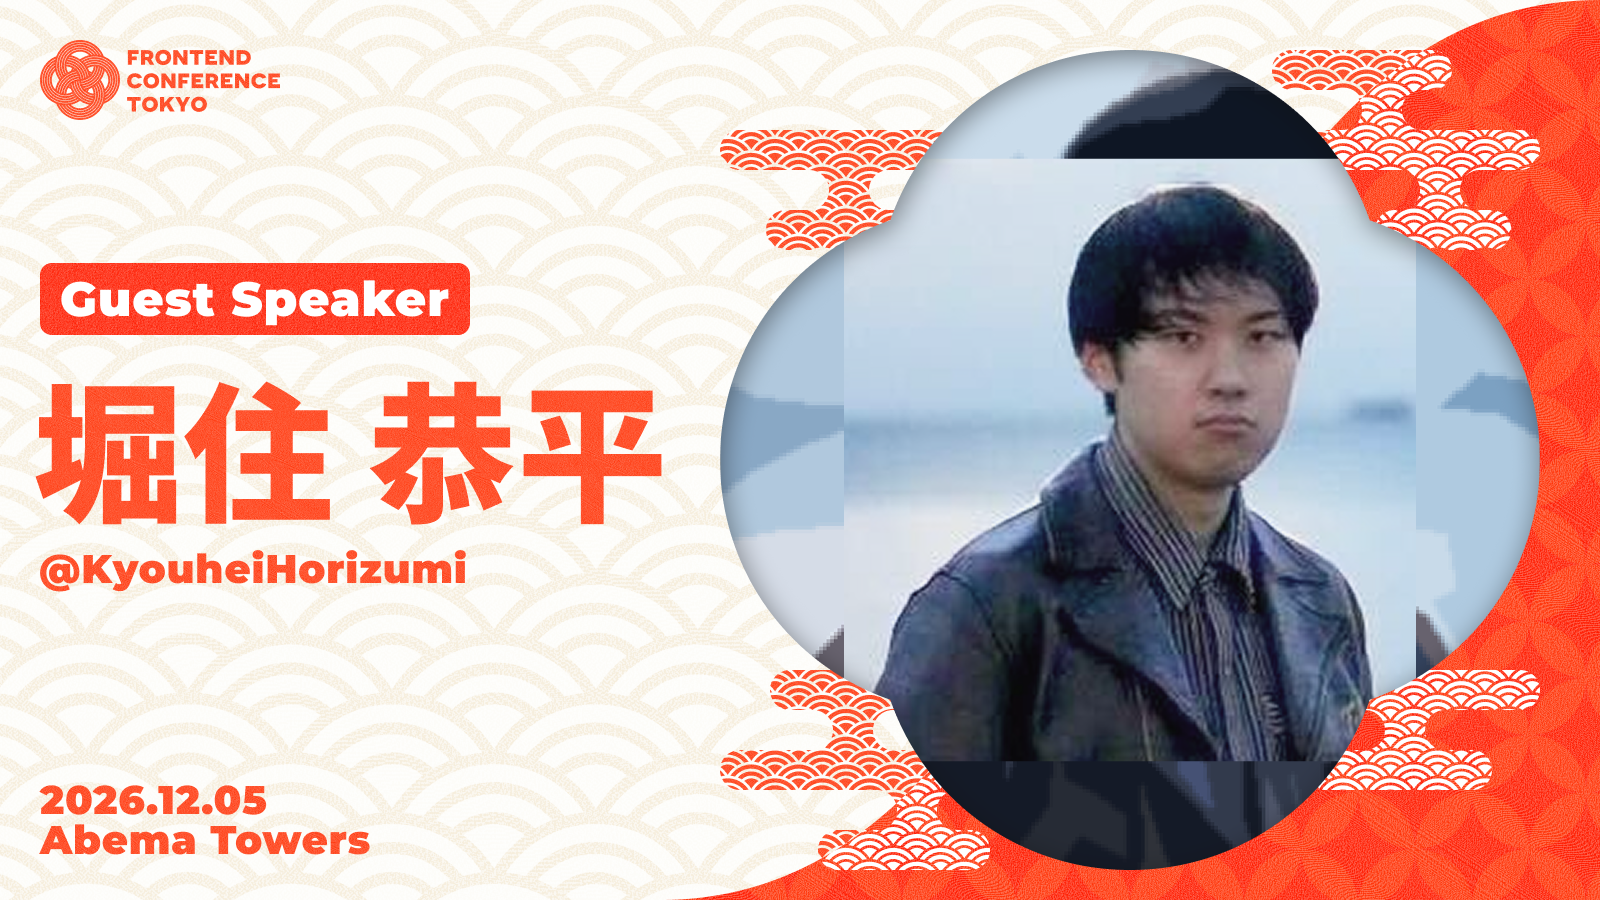
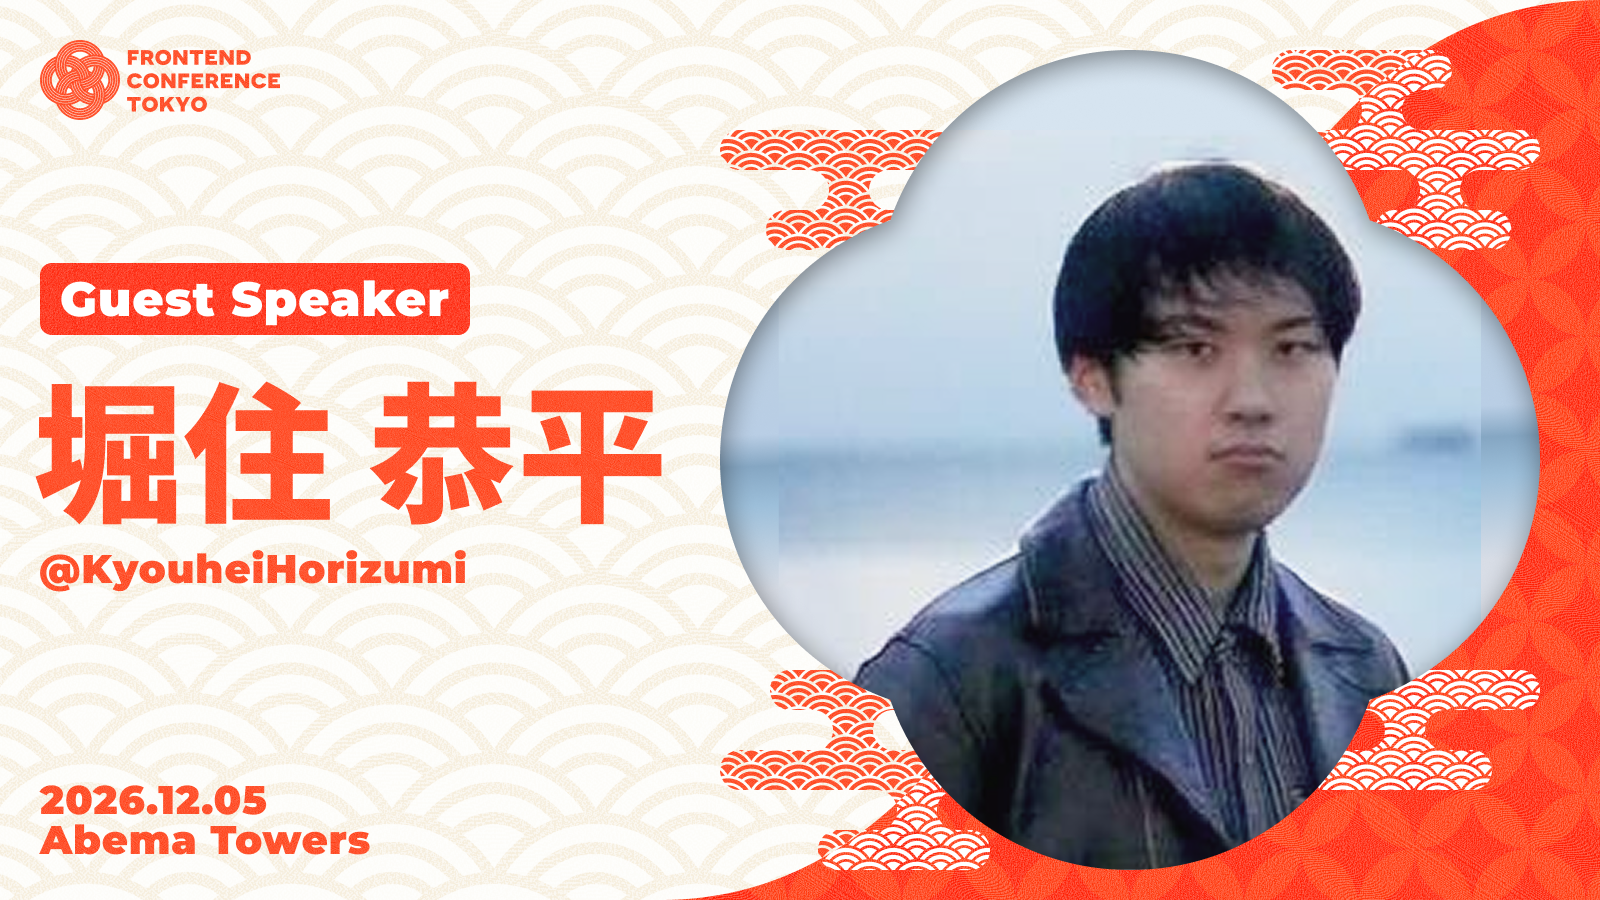
chore: 10/29分の登壇者公開

Changed region(s): [[0.4375, 0.0622, 0.9688, 0.9644], [0.9062, 0.5911, 0.9688, 0.6844], [0.5, 0.28, 0.5312, 0.3422]]

diff --git a/src/data/2026/guestSpeakers.ts b/src/data/2026/guestSpeakers.ts
@@ -3,23 +3,23 @@ import AkihikoKigureOgImage from "@/assets/2026/ogp/ogp_akihikokigure.png";
 import AmagiOgImage from "@/assets/2026/ogp/ogp_amagi.png";
 import HirokiTaniOgImage from "@/assets/2026/ogp/ogp_hirokitani.png";
 import MasatoHondaOgImage from "@/assets/2026/ogp/ogp_hondamasato.png";
+import KyouheiHorizumiOgImage from "@/assets/2026/ogp/ogp_horizumikyohei.png";
 import KeitaYamadaOgImage from "@/assets/2026/ogp/ogp_keitayamada.png";
+import KogisoOgImage from "@/assets/2026/ogp/ogp_kogiso.png";
+import TetsuharuOhzekiOgImage from "@/assets/2026/ogp/ogp_tetsuharuohzeki.png";
 import MasatoHondaImage from "@/assets/2026/speaker-icons/honda_masato.jpg";
 import KeitaYamadaImage from "@/assets/2026/speaker-icons/keita_yamada.png";
 import HirokiTaniImage from "@/assets/2026/speaker-icons/tani_hiroki.jpg";
-// import KyouheiHorizumiOgImage from "@/assets/2026/ogp/ogp_horizumikyohei.png";
-// import KogisoOgImage from "@/assets/2026/ogp/ogp_kogiso.png";
 // import LacolacoOgImage from "@/assets/2026/ogp/ogp_lacolaco.png";
 // import RicardoCabelloOgImage from "@/assets/2026/ogp/ogp_ricardocabello.png";
-// import TetsuharuOhzekiOgImage from "@/assets/2026/ogp/ogp_tetsuharuohzeki.png";
 import Image0b5vr from "@/assets/2026/speaker-icons/0b5vr.png";
 import AkihikoKigureImage from "@/assets/2026/speaker-icons/akihiko_kigure.png";
 import AmagiImage from "@/assets/2026/speaker-icons/amagi.jpg";
-// import KogisoImage from "@/assets/2026/speaker-icons/kogiso.jpg";
-// import KyouheiHorizumiImage from "@/assets/2026/speaker-icons/kyouhei_horizumi.png";
+import KogisoImage from "@/assets/2026/speaker-icons/kogiso.jpg";
+import KyouheiHorizumiImage from "@/assets/2026/speaker-icons/kyouhei_horizumi.png";
 // import LacolacoImage from "@/assets/2026/speaker-icons/lacolaco.jpg";
 // import RicardoCabelloImage from "@/assets/2026/speaker-icons/ricardo_cabello.jpg";
-// import TetsuharuOhzekiImage from "@/assets/2026/speaker-icons/tetsuharu_ohzeki.jpg";
+import TetsuharuOhzekiImage from "@/assets/2026/speaker-icons/tetsuharu_ohzeki.jpg";
 import type { ImageMetadata } from "astro";
 
 export type GuestSpeaker = {
@@ -141,6 +141,54 @@ export const GUEST_SESSIONS: GuestSession[] = [
       },
     ],
   },
+  {
+    slug: "tetsuharu-ohzeki",
+    ogImage: TetsuharuOhzekiOgImage,
+    overview: [
+      "DOM binding - JSの世界とC++で実装されたDOMはどのように統合されて動くのか",
+    ],
+    speakers: [
+      {
+        name: "Tetsuharu Ohzeki",
+        company: null,
+        image: TetsuharuOhzekiImage,
+        profile: "Open Source Software Engineer",
+        sns: "https://github.com/tetsuharuohzeki",
+      },
+    ],
+  },
+  {
+    slug: "kgsi",
+    ogImage: KogisoOgImage,
+    overview: [
+      "コードとデザイン（仮）",
+      "今年起こったデジタルにおけるデザイン界隈の変化と、デザインとコードの今後の在り方についてお話します。",
+    ],
+    speakers: [
+      {
+        name: "こぎそ",
+        company: "株式会社Lumilinks",
+        image: KogisoImage,
+        profile:
+          "株式会社Lumilinks 代表取締役/デザイナー。受託制作会社やインターネットインフラ企業でデザイン、アプリケーション開発などに携わったのち、SaaS企業でプロダクトデザイン、デザインシステムの構築を担当。生成AIベンチャーやスタートアップを経て株式会社Lumilinksを設立。デザインを軸に、組織支援、AIワークフロー構築、広報支援などを行う。共著に『ちいさくはじめるデザインシステム』（BNN）。",
+        sns: "https://x.com/kgsi",
+      },
+    ],
+  },
+  {
+    slug: "kyouhei-horizumi",
+    ogImage: KyouheiHorizumiOgImage,
+    overview: ["サポート詐欺の魔手を断て！"],
+    speakers: [
+      {
+        name: "堀住 恭平",
+        company: "FOURIER Inc.",
+        image: KyouheiHorizumiImage,
+        profile: "Windows Meに育てられました / FOURIER Inc.",
+        sns: "https://x.com/KyouheiHorizumi",
+      },
+    ],
+  },
   // {
   //   // TODO: フォームの登壇概要が空欄だったので、概要が届いたら overview を入れる
   //   slug: "ricardo-cabello",
@@ -154,20 +202,6 @@ export const GUEST_SESSIONS: GuestSession[] = [
   //       profile:
   //         "Ricardo Cabello (Mr.doob) is a Tokyo-based software engineer at Google and the creator of Three.js. Since 2010, he has maintained the open-source 3D web graphics library and led its global community of developers and artists.",
   //       sns: "https://x.com/mrdoob",
-  //     },
-  //   ],
-  // },
-  // {
-  //   slug: "kyouhei-horizumi",
-  //   ogImage: KyouheiHorizumiOgImage,
-  //   overview: ["サポート詐欺の魔手を断て！"],
-  //   speakers: [
-  //     {
-  //       name: "堀住 恭平",
-  //       company: "FOURIER Inc.",
-  //       image: KyouheiHorizumiImage,
-  //       profile: "Windows Meに育てられました / FOURIER Inc.",
-  //       sns: "https://x.com/KyouheiHorizumi",
   //     },
   //   ],
   // },
@@ -195,40 +229,6 @@ export const GUEST_SESSIONS: GuestSession[] = [
   //       profile:
   //         "TypeScript歴13年。20万行超の大規模アプリケーション設計を得意とする。2026年7月から、タイムリープ株式会社の技術顧問。商業書籍の執筆、カンファレンス登壇、イベント運営など。",
   //       sns: "https://x.com/okunokentaro",
-  //     },
-  //   ],
-  // },
-  // {
-  //   slug: "kgsi",
-  //   ogImage: KogisoOgImage,
-  //   overview: [
-  //     "コードとデザイン（仮）",
-  //     "今年起こったデジタルにおけるデザイン界隈の変化と、デザインとコードの今後の在り方についてお話します。",
-  //   ],
-  //   speakers: [
-  //     {
-  //       name: "こぎそ",
-  //       company: "株式会社Lumilinks",
-  //       image: KogisoImage,
-  //       profile:
-  //         "株式会社Lumilinks 代表取締役/デザイナー。受託制作会社やインターネットインフラ企業でデザイン、アプリケーション開発などに携わったのち、SaaS企業でプロダクトデザイン、デザインシステムの構築を担当。生成AIベンチャーやスタートアップを経て株式会社Lumilinksを設立。デザインを軸に、組織支援、AIワークフロー構築、広報支援などを行う。共著に『ちいさくはじめるデザインシステム』（BNN）。",
-  //       sns: "https://x.com/kgsi",
-  //     },
-  //   ],
-  // },
-  // {
-  //   slug: "tetsuharu-ohzeki",
-  //   ogImage: TetsuharuOhzekiOgImage,
-  //   overview: [
-  //     "DOM binding - JSの世界とC++で実装されたDOMはどのように統合されて動くのか",
-  //   ],
-  //   speakers: [
-  //     {
-  //       name: "Tetsuharu Ohzeki",
-  //       company: null,
-  //       image: TetsuharuOhzekiImage,
-  //       profile: "Open Source Software Engineer",
-  //       sns: "https://github.com/tetsuharuohzeki",
   //     },
   //   ],
   // },
